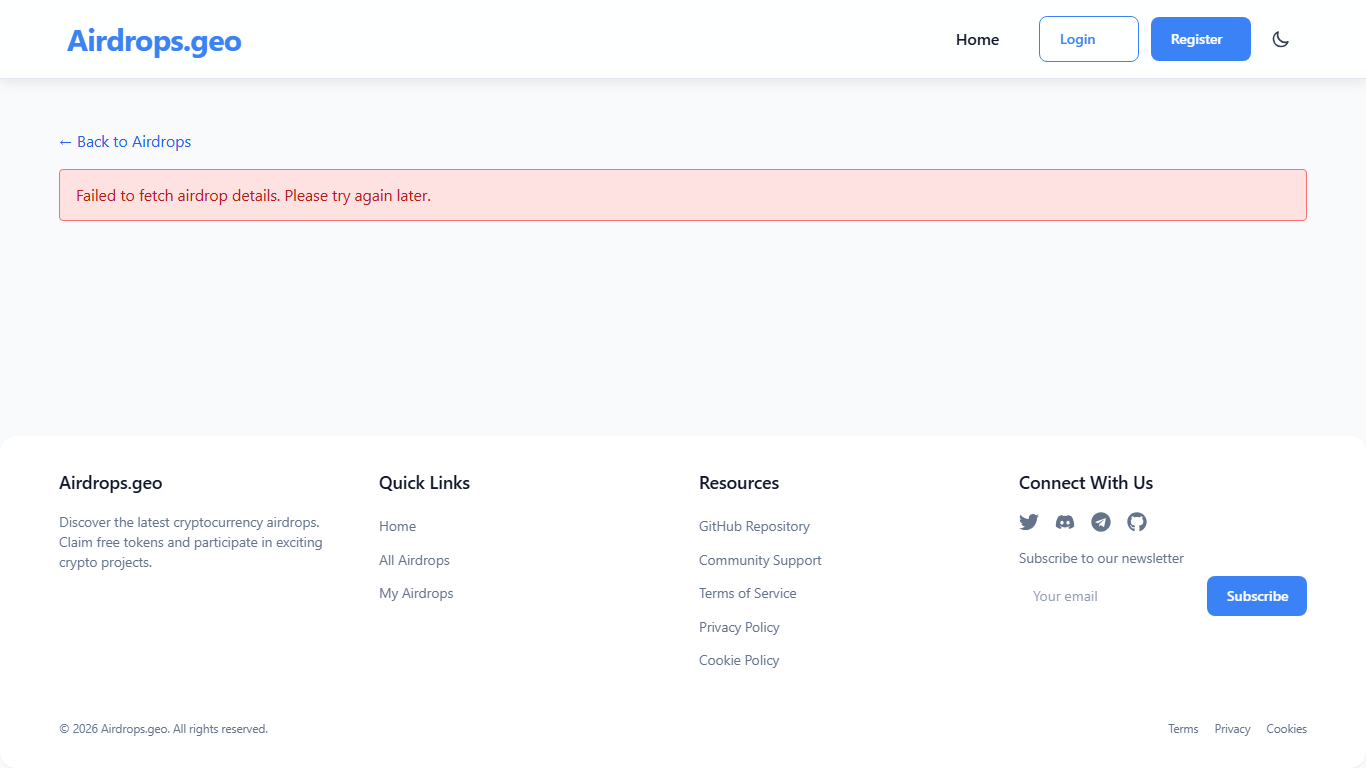
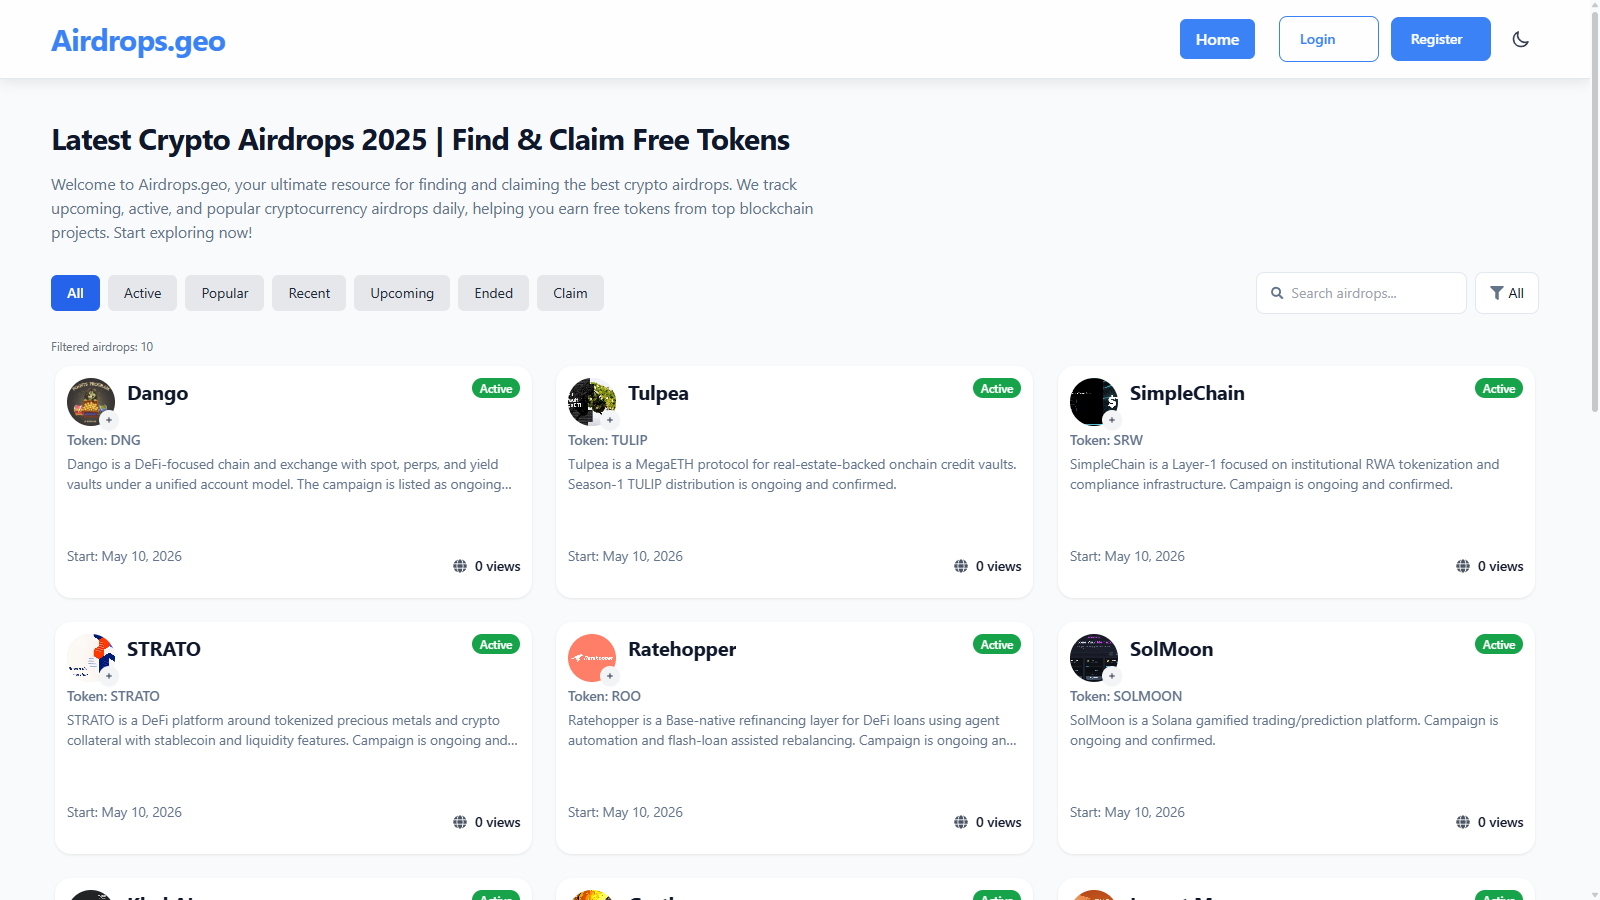
chore: refresh project previews and update ResumeATS branding

diff --git a/src/data/portfolioData.js b/src/data/portfolioData.js
@@ -15,12 +15,12 @@ export const projects = [
   {
     id: 2,
     slug: 'ats-friendly-resume-builder',
-    title: 'ATS Friendly Resume Builder',
+    title: 'ResumeATS.cv',
     description:
       'AI-powered resume builder with ATS-safe templates, secure authentication, premium billing, PDF and DOCX export, and automation for job-search workflows.',
     tags: ['React', 'Vite', 'Supabase', 'Stripe', 'Python', 'PDF Export', 'AI'],
     githubLink: 'https://github.com/GiorgiKemo/ats-friendly-resume-builder',
-    liveLink: 'https://ats-friendly-resume-builder-pi.vercel.app',
+    liveLink: 'https://www.resumeats.cv',
     previewImage: '/project-previews/ats-friendly-resume-builder.png',
     complexityScore: 94,
     visibility: 'public',
@@ -110,7 +110,7 @@ export const projects = [
       'Crypto airdrop discovery platform for Georgian users with account-aware flows, data-backed listings, and a full-stack JavaScript application structure.',
     tags: ['JavaScript', 'React', 'Supabase', 'PostgreSQL', 'Web3'],
     githubLink: 'https://github.com/GiorgiKemo/airdrops-geo',
-    liveLink: 'https://airdrops-geo.onrender.com/airdrops/67f3ff7c7af3b5e4c76b9354',
+    liveLink: 'https://airdrops-geo.onrender.com',
     previewImage: '/project-previews/airdrops-geo.png',
     complexityScore: 56,
     visibility: 'public',
